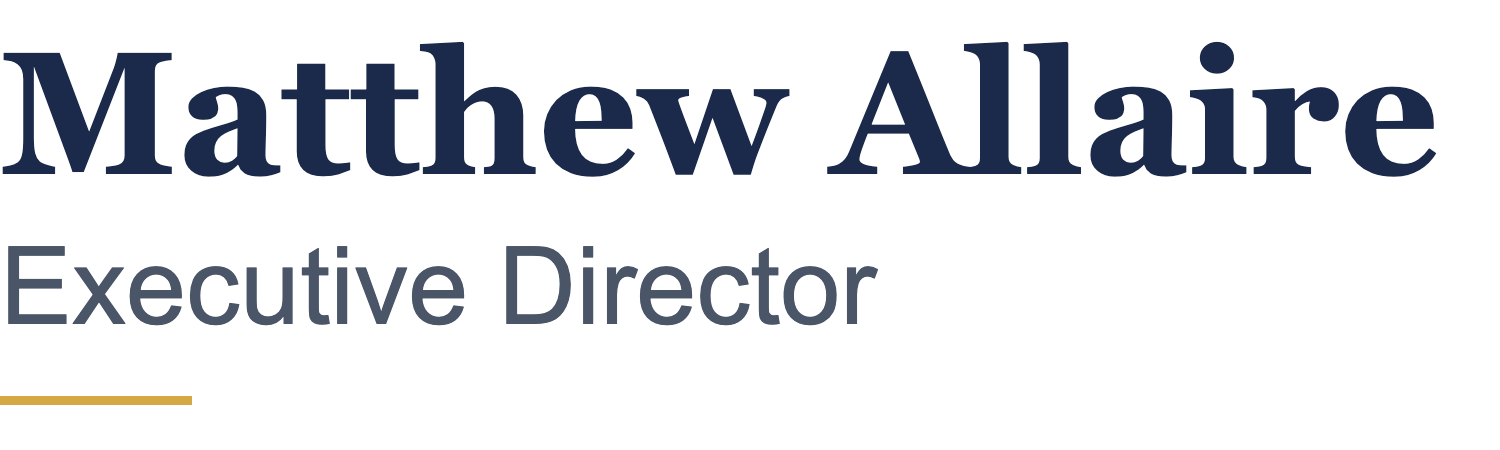
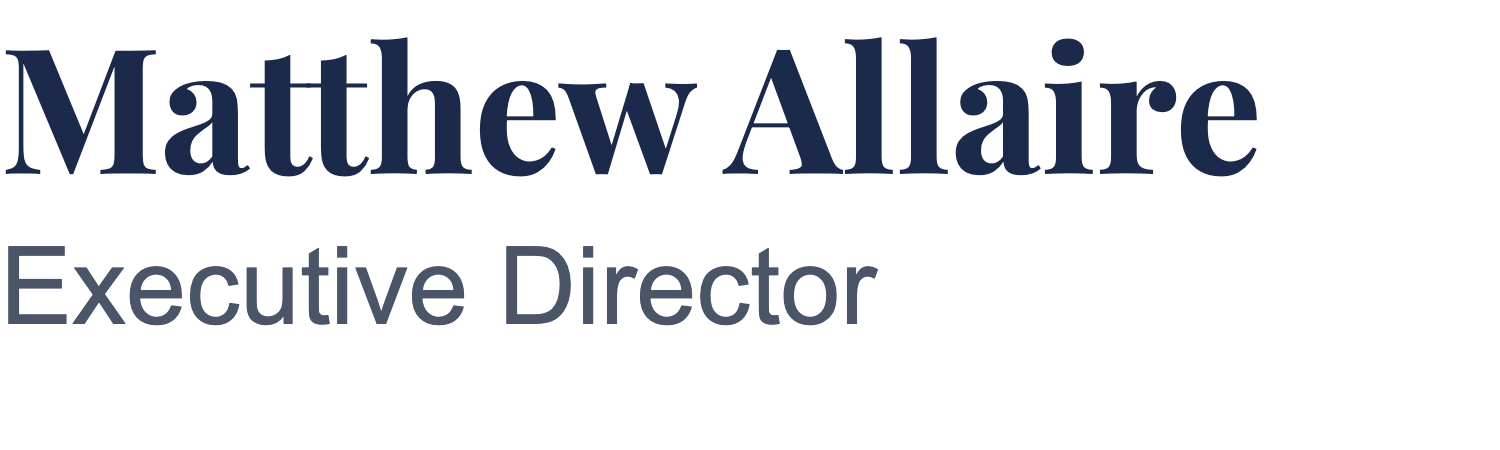
Signature: swap Georgia → Playfair Display on name + wordmark
Bump cache-busters to v=20 so Gmail refetches on next save.

Changed region(s): [[0.0, 0.0622, 0.9813, 0.4044], [0.0, 0.8711, 0.1533, 0.9022]]

diff --git a/signature/index.html b/signature/index.html
@@ -61,7 +61,7 @@
     '<table cellpadding="0" cellspacing="0" border="0" style="border-collapse:collapse;">' +
       '<tr>' +
         '<td valign="middle" style="padding:0;">' +
-          '<img src="' + BASE + '/assets/name-card.png?v=19" width="168" height="50" alt="Matthew Allaire, Executive Director" style="display:block; border:0;">' +
+          '<img src="' + BASE + '/assets/name-card.png?v=20" width="168" height="50" alt="Matthew Allaire, Executive Director" style="display:block; border:0;">' +
         '</td>' +
         '<td valign="middle" style="padding:14px 0 0 6px; white-space:nowrap;">' +
           '<a href="https://www.linkedin.com/in/matthew-allaire-95004a257/" title="LinkedIn" style="text-decoration:none; border:0; display:inline-block; margin-right:4px;">' +
@@ -74,7 +74,7 @@
       '</tr>' +
       '<tr>' +
         '<td colspan="2" valign="top" style="padding:0;">' +
-          '<img src="' + BASE + '/assets/wordmark.png?v=19" width="168" height="22" alt="Commonwealth IRL" style="display:block; border:0;">' +
+          '<img src="' + BASE + '/assets/wordmark.png?v=20" width="168" height="22" alt="Commonwealth IRL" style="display:block; border:0;">' +
         '</td>' +
       '</tr>' +
     '</table>';
